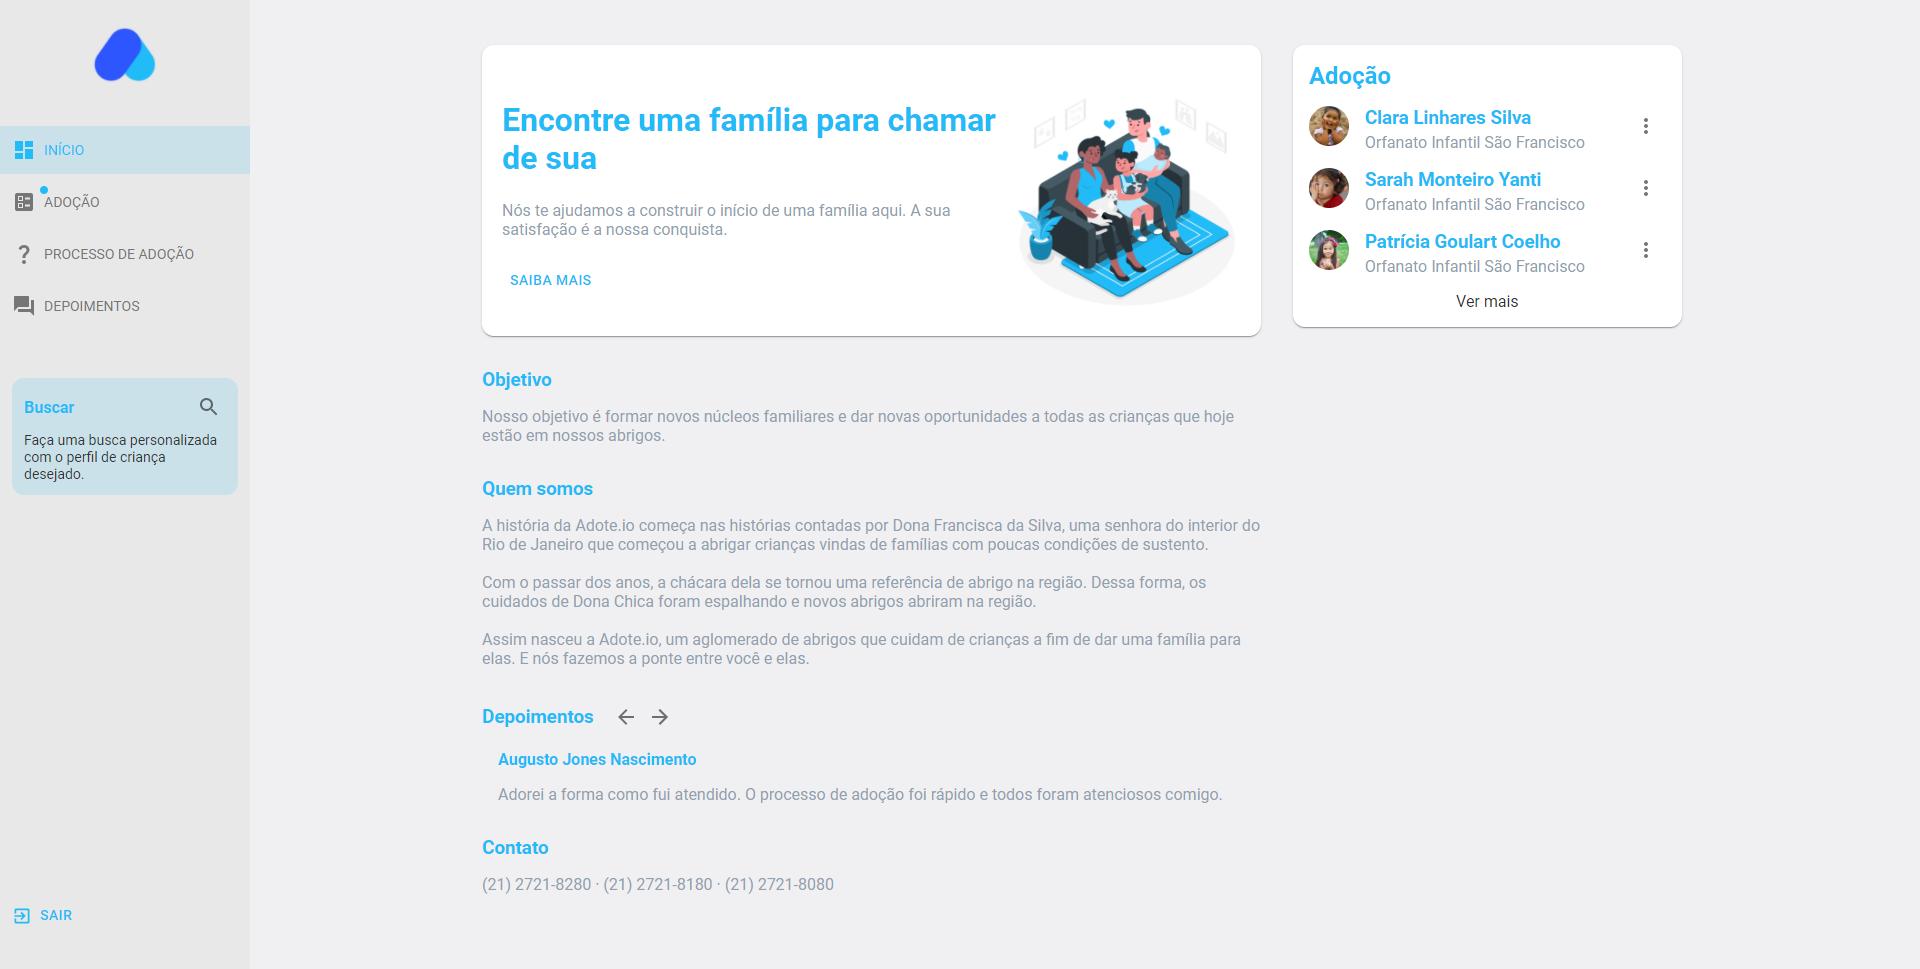
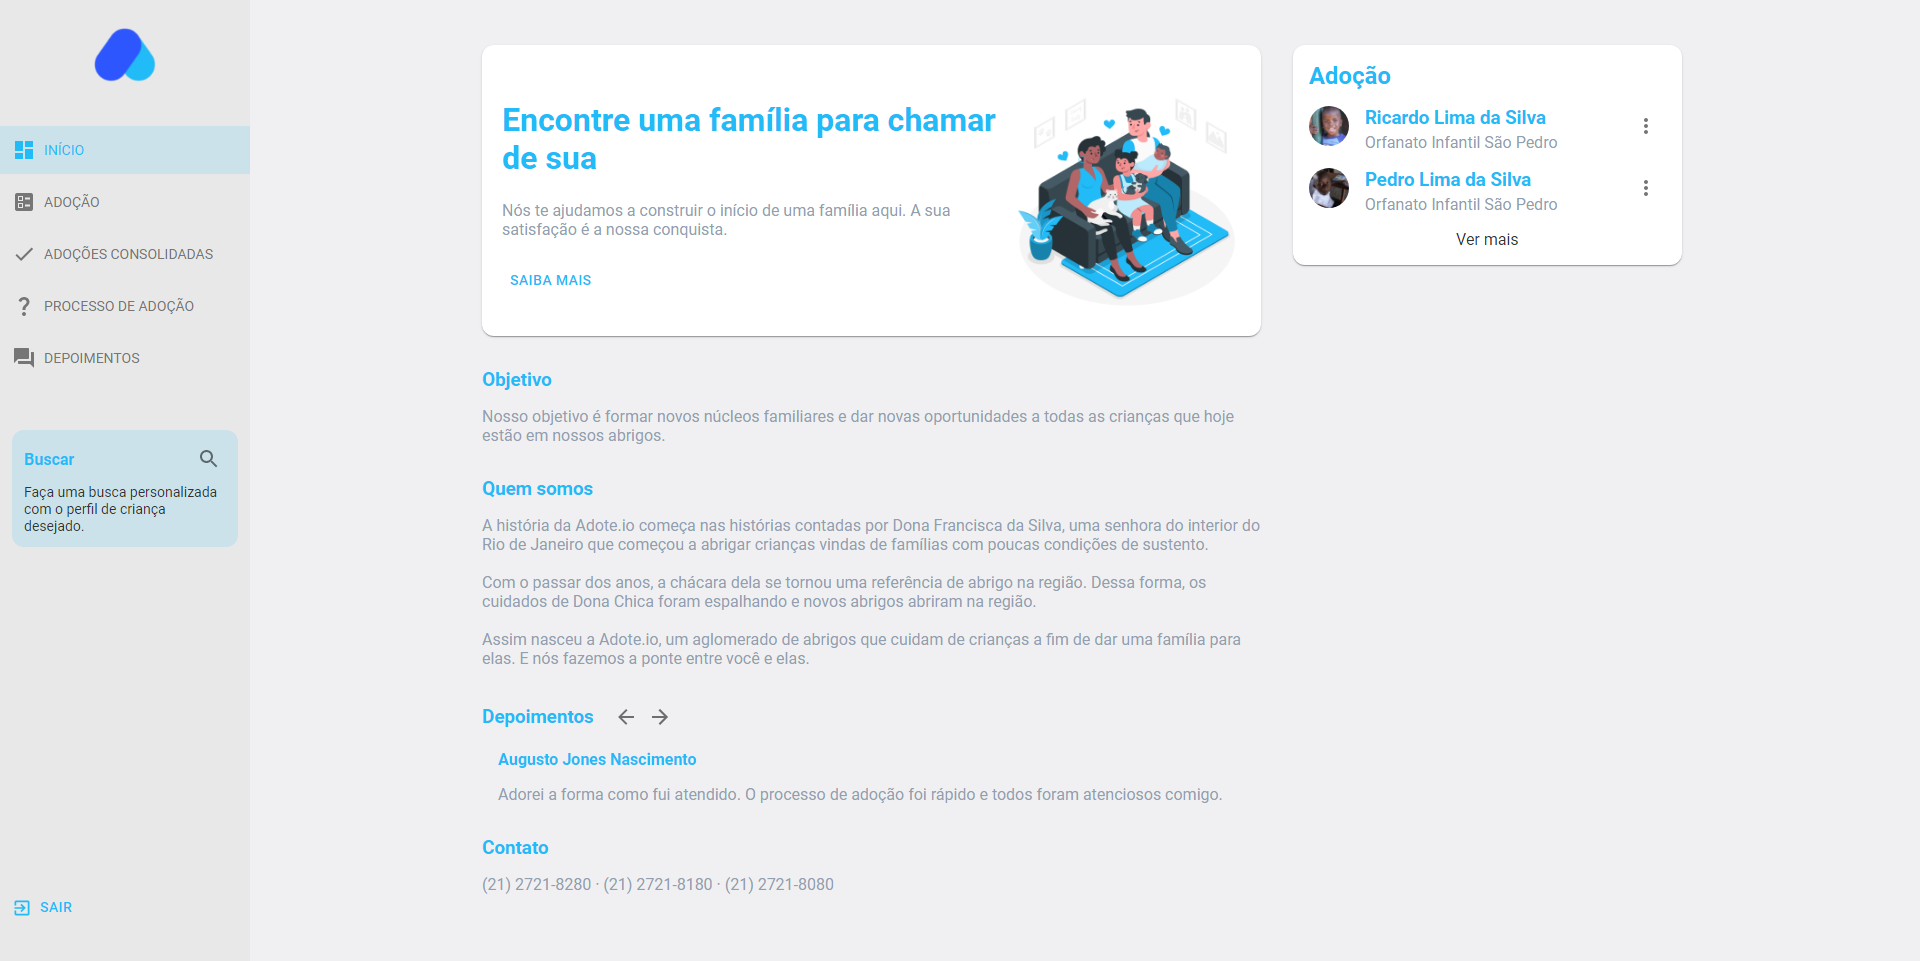
Correção de consolidação de adoção

diff --git a/src/pages/AdoptionConsolidated/index.js b/src/pages/AdoptionConsolidated/index.js
@@ -27,7 +27,7 @@ import TableLoading from '../../components/Loadings/TableLoading';
 import AdoptionOperations from '../../common/rules/Adoption/AdoptionOperations';
 
 import {
-    ContainerAdoptionRequests,
+    ContainerAdoptionConsolidated,
     ContentAdoptionRequests,
 } from './styles';
 
@@ -59,8 +59,6 @@ const AdoptionConsolidated = () => {
             const response = await dispatch(AdoptionOperations.getConsolidatedAdoptions());
 
             setAdoptions(response);
-
-            console.log('adocoes', response)
 
             setIsLoading(false);
         } catch (err) {
@@ -117,7 +115,7 @@ const AdoptionConsolidated = () => {
     }
 
     return (
-        <ContainerAdoptionRequests>
+        <ContainerAdoptionConsolidated>
             <Menu />
 
             <ConfirmDialog
@@ -143,6 +141,10 @@ const AdoptionConsolidated = () => {
                                     </TableCell>
 
                                     <TableCell align="center">
+                                        Criança
+                                    </TableCell>
+
+                                    <TableCell align="center">
                                         Data
                                     </TableCell>
 
@@ -155,7 +157,7 @@ const AdoptionConsolidated = () => {
                             <TableBody>
                                 <TableLoading
                                     linhas={2}
-                                    colunas={3}
+                                    colunas={4}
                                     isLoading={isLoading}
                                     hasError={hasError}
                                     onPress={getConsolidatedAdoptions}
@@ -166,7 +168,7 @@ const AdoptionConsolidated = () => {
                                     adoptions &&
                                     adoptions.length === 0 && (
                                         <TableRow>
-                                            <TableCell colSpan={3} align="center">
+                                            <TableCell colSpan={4} align="center">
                                                 Nenhum resultado encontrado
                                             </TableCell>
                                         </TableRow>
@@ -180,6 +182,10 @@ const AdoptionConsolidated = () => {
                                         <TableRow key={item.pessoaId}>
                                             <TableCell align="center">
                                                 {item.nomeSolicitante}
+                                            </TableCell>
+
+                                            <TableCell align="center">
+                                                {item.nomeCrianca}
                                             </TableCell>
 
                                             <TableCell align="center">
@@ -218,7 +224,7 @@ const AdoptionConsolidated = () => {
                     </TableContainer>
                 </ContentAdoptionRequests>
             </Box>
-        </ContainerAdoptionRequests>
+        </ContainerAdoptionConsolidated>
     );
 }
 

diff --git a/src/pages/Adoption/index.js b/src/pages/Adoption/index.js
@@ -63,10 +63,10 @@ const Adoption = () => {
     const [isSubmitting, setIsSubmitting] = useState(false);
 
     useEffect(() => {
-        if (user.perfil === 'PESSOA') {
+        if (user && user.perfil === 'PESSOA') {
             getChildrenRequested();
         }
-    }, []);
+    }, [user]);
 
     const getChildrenRequested = async () => {
         try {

diff --git a/src/pages/AdoptionConsolidated/styles.js b/src/pages/AdoptionConsolidated/styles.js
@@ -1,6 +1,6 @@
 import styled from 'styled-components';
 
-export const ContainerAdoptionRequests = styled.div`
+export const ContainerAdoptionConsolidated = styled.div`
     width: 100%;
     height: 100vh;
     overflow: hidden;

diff --git a/README.md b/README.md
@@ -73,6 +73,14 @@ yarn start
 
 ## 💻 Project <a name="project"/>
 
+To log in application:
+
+```bash
+# Admin
+admin@adote.io
+teste123
+```
+
 Sign in:
 
 <img
